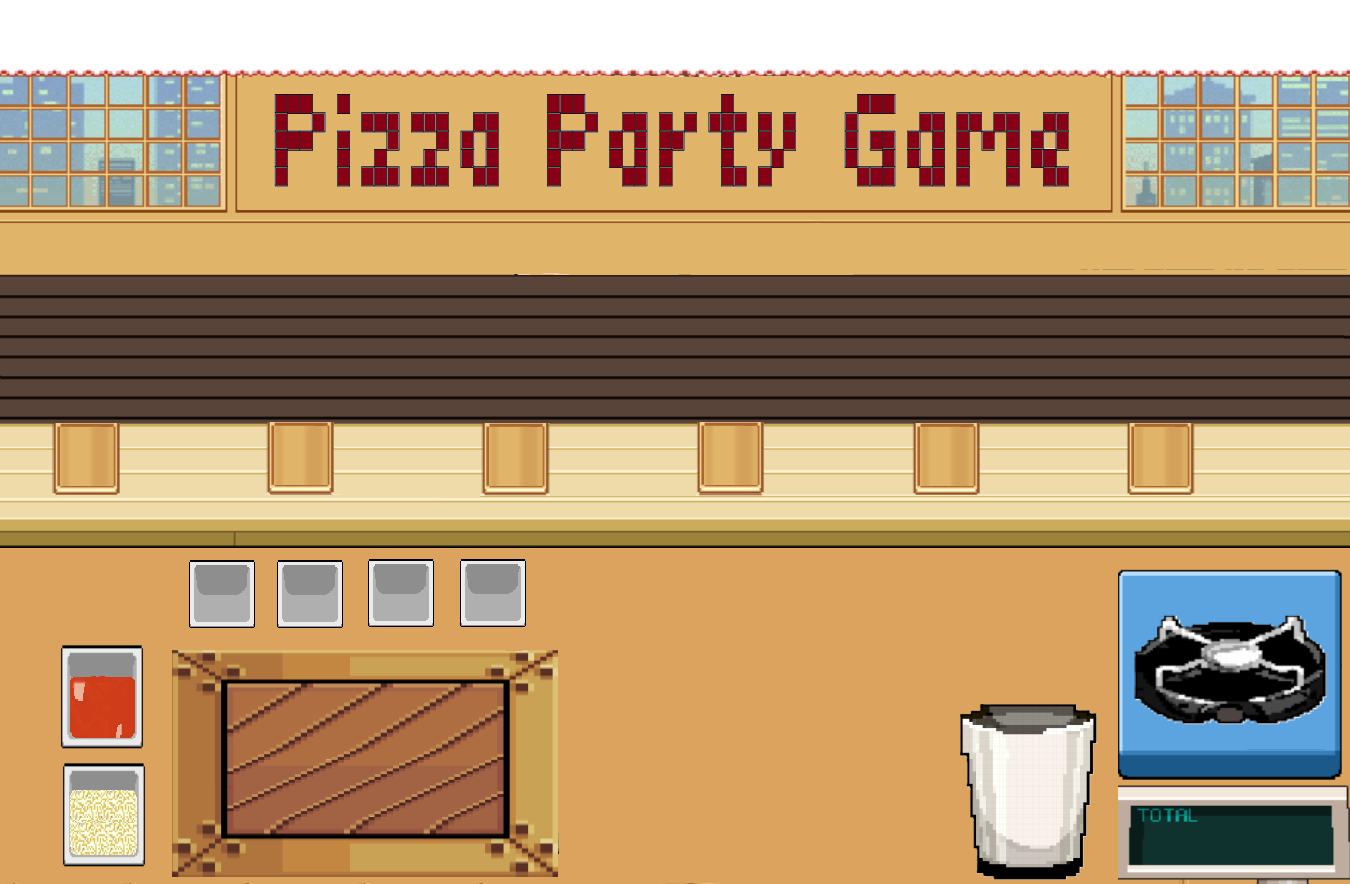
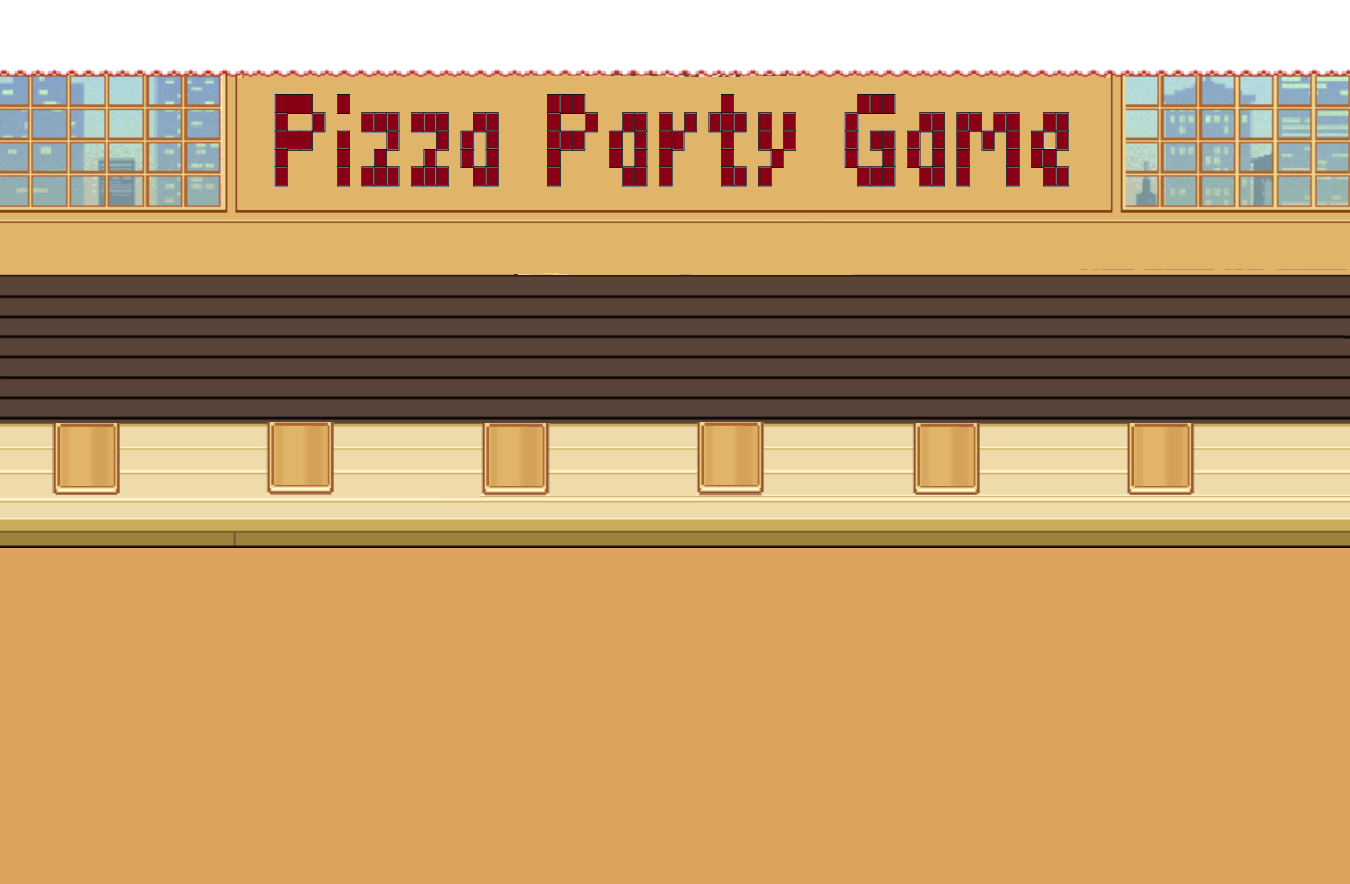
fixed topping image issues, fix pizza location, modified background image, got trashcan to work, fixed customer dissappearing issue

Changed region(s): [[0.0311, 0.6109, 0.4356, 1.0], [0.6844, 0.6414, 1.0, 1.0]]

diff --git a/frontend/src/components/Town/interactables/PizzaParty/PizzaPartyGame.tsx b/frontend/src/components/Town/interactables/PizzaParty/PizzaPartyGame.tsx
@@ -1,8 +1,8 @@
 import React, { useEffect, useState } from 'react';
-
+import {Pizza, Pizza as PizzaType} from '../../../../types/CoveyTownSocket';
 import Image from 'next/image';
 import PizzaPartyAreaController from '../../../../classes/interactable/PizzaPartyAreaController';
-import Pizza from './Pizza';
+import PizzaSprite from './Pizza';
 import Customer from './Customer';
 import {
   Customer as CustomerType,
@@ -13,10 +13,24 @@ import { ToppingOptions } from '../../../../types/CoveyTownSocket';
 import ToppingTray from './ToppingTray';
 import Oven from './Oven';
 import Trash from './Trash';
+import { chakra, Container } from '@chakra-ui/react';
 
 export type PizzaPartyGameProps = {
   gameAreaController: PizzaPartyAreaController;
 };
+
+/**
+ * A component that renders the Pizza Party game
+ */
+const StyledPizzaGameBoard = chakra(Container, {
+  baseStyle: {
+    display: 'flex',
+    width: '400px',
+    height: '400px',
+    padding: '5px',
+    flexWrap: 'wrap',
+  },
+});
 
 const TOPPINGS_LIST: ToppingOptions[] = [
   'pepperoni',
@@ -31,29 +45,39 @@ const TOPPINGS_LIST: ToppingOptions[] = [
 // To-Do: Add controller functionality in here
 export default function PizzaPartyGame({ gameAreaController }: PizzaPartyGameProps): JSX.Element {
   const [currentCustomers, setCurrentCustomers] = useState(gameAreaController.currentCustomers);
-  const [currentPizza, setCurrentPizza] = useState(gameAreaController.currentPizza);
+  const [currentPizza, setCurrentPizza] = useState<Pizza | undefined>(gameAreaController.currentPizza);
+  const [currentToppings, setCurrentToppings] = useState<ToppingType[] | undefined>(currentPizza?.toppings);
   const [currentScore, setCurrentScore] = useState(gameAreaController.currentScore);
   const [currentGame, setCurrentGame] = useState(gameAreaController.game);
 
   useEffect(() => {
     const intervalId = setInterval(() => {
-      const index = gameAreaController.findEmptySeat();
-      if (
-        index !== -1 &&
-        index !== undefined &&
-        currentCustomers !== undefined &&
-        gameAreaController.currentCustomers !== undefined
-      ) {
-        const newCustomers = [...currentCustomers];
-        const customer = gameAreaController.generateRandomCustomer();
-        newCustomers[index] = customer;
-        gameAreaController.currentCustomers[index] = customer;
-        setCurrentCustomers(newCustomers);
-        console.log('hello');
-        console.log(currentCustomers);
-      }
+      // if (currentCustomers && currentCustomers.length >= 3) {
+      //   clearInterval(intervalId);
+      // } else {
+        const index = gameAreaController.findEmptySeat();
+        if (
+          index !== -1 &&
+          index !== undefined &&
+          currentCustomers !== undefined &&
+          gameAreaController.currentCustomers !== undefined
+        ) {
+          const newCustomers = [...currentCustomers];
+          const customer = gameAreaController.generateRandomCustomer();
+          newCustomers[index] = customer;
+          gameAreaController.currentCustomers[index] = customer;
+          setCurrentCustomers(newCustomers);
+        }
+        gameAreaController.addListener('customerChanged', setCurrentCustomers);
+
     }, 3000);
-    gameAreaController.addListener('customerChanged', setCurrentCustomers);
+    return () => {
+    gameAreaController.removeListener('customerChanged', setCurrentCustomers);  
+    clearInterval(intervalId);
+    };
+  }, [gameAreaController, currentCustomers]);
+
+  useEffect(() => {
     gameAreaController.addListener('pizzaChanged', setCurrentPizza);
     gameAreaController.addListener('scoreChanged', setCurrentScore);
     gameAreaController.addListener('gameChanged', setCurrentGame);
@@ -62,9 +86,8 @@ export default function PizzaPartyGame({ gameAreaController }: PizzaPartyGamePro
       gameAreaController.removeListener('pizzaChanged', setCurrentPizza);
       gameAreaController.removeListener('scoreChanged', setCurrentScore);
       gameAreaController.removeListener('gameChanged', setCurrentGame);
-      clearInterval(intervalId);
     };
-  }, [currentGame, currentCustomers, currentPizza, gameAreaController]);
+  }, [currentGame, currentPizza, gameAreaController]);
 
   function applyTopping(topp: ToppingOptions): void {
     const top = {
@@ -78,56 +101,58 @@ export default function PizzaPartyGame({ gameAreaController }: PizzaPartyGamePro
       customer: undefined,
       gamePiece: 'placeTopping',
     });
-    console.log(currentPizza);
   }
+  function handleTrashClick(): void {
+    console.log("Trash clicked");
+    gameAreaController.makeMove({
+      gamePiece: 'throwOut',
+      pizza: currentPizza,
+      customer: undefined,
+    });
+    console.log("move made");
+  };
 
   return (
-    <div>
-      <div>
-        <Image
-          src={'/assets/pizza-party/background.png'}
-          alt='Pizza Party Game'
-          layout='fill'
-          style={{ position: 'absolute', top: 0, left: 0 }}
-        />
-        <div style={{ position: 'absolute', top: 425, left: 55, width: '100%', height: '100%' }}>
-          <Pizza pizza={currentPizza} toppings={currentPizza?.toppings} />
-        </div>
-        <div style={{ display: 'flex', position: 'absolute', left: 7 }}>
-          {currentCustomers?.map((customer, index) =>
-            customer.name !== 'Empty' ? (
-              <div style={{ marginRight: 30 }} key={index}>
-                <Customer customer={customer} />
-              </div>
-            ) : (
-              <div style={{ marginRight: 30 }} key={index}></div>
-            ),
-          )}
-        </div>
-        <div style={{ position: 'absolute', top: 350, left: 480 }}>
-          <Oven />
-        </div>
-        <div style={{ position: 'absolute', top: 430, left: 410 }}>
-          <Trash />
-        </div>
-        <div style={{ display: 'flex', position: 'absolute', left: 7, top: 350 }}>
-          {TOPPINGS_LIST.map((topping, index) => {
-            return (
-              <div key={index} style={{ marginRight: 30 }} onClick={() => applyTopping(topping)}>
-                <ToppingTray topping={topping} />
-              </div>
-            );
-          })}
-        </div>
-        <div style={{ display: 'flex', flexDirection: 'column', position: 'absolute', top: 400 }}>
-          <ToppingTray topping={'sauce'} />
-          <ToppingTray topping={'cheese'} />
-        </div>
+    <StyledPizzaGameBoard>
+      <Image
+        src={'/assets/pizza-party/background.png'}
+        alt='Pizza Party Game'
+        layout='fill'
+        style={{ position: 'absolute', top: 0, left: 0 }}
+      />
+      <div style={{ position: 'absolute', top: 450, left:55,  width: '100%', height: '100%'}}>
+        <PizzaSprite pizza={currentPizza} toppings={currentPizza?.toppings} />
       </div>
-      <div>
-        <div>Instructions</div>
-        <div></div>
+      <div style={{ display: 'flex', position: 'absolute', left: 7 }}>
+        {currentCustomers?.map((customer, index) =>
+          customer.name !== 'Empty' ? (
+            <div style={{ marginRight: 30 }} key={index}>
+              <Customer customer={customer} />
+            </div>
+          ) : (
+            <div style={{ marginRight: 30 }} key={index}></div>
+          ),
+        )}
       </div>
-    </div>
+      <div style={{ position: 'absolute', top: 350, left: 480 }}>
+        <Oven />
+      </div>
+      <div style={{ position: 'absolute', top: 430, left: 410 }}>
+        <Trash onClick={() => handleTrashClick()}/>
+      </div>
+      <div style={{ display: 'flex', position: 'absolute', left: 7, top: 350 }}>
+        {TOPPINGS_LIST.map((topping, index) => {
+          return (
+            <div key={index} style={{ marginRight: 30 }} onClick={() => applyTopping(topping)}>
+              <ToppingTray topping={topping} />
+            </div>
+          );
+        })}
+      </div>
+      <div style={{ display: 'flex', flexDirection: 'column', position: 'absolute', top: 400 }}>
+        <ToppingTray topping={'sauce'} />
+        <ToppingTray topping={'cheese'} />
+      </div>
+    </StyledPizzaGameBoard>
   );
 }

diff --git a/frontend/src/components/Town/interactables/PizzaParty/Pizza.tsx b/frontend/src/components/Town/interactables/PizzaParty/Pizza.tsx
@@ -9,22 +9,25 @@ export type PizzaProps = {
   toppings: ToppingType[] | undefined;
 };
 
-export default function Pizza({ pizza, toppings }: PizzaProps): JSX.Element {
+export default function PizzaSprite({ pizza, toppings }: PizzaProps): JSX.Element {
   const [currentPizza, setCurrentPizza] = useState<PizzaType | undefined>(pizza);
 
   if (!currentPizza) {
     return <div />;
   }
+
   return (
-    <div>
+    <div style={{ position: 'relative', width: '200px', height: '100px' }}>
       <Image
         src={'/assets/pizza-party/raw-pizzas/dough.png'}
         alt='Pizza base'
         width={200}
         height={100}
       />
-      {toppings.map((topping, index) => (
-        <Topping key={index} topping={topping} />
+      {toppings?.map((topping, index) => (
+        <div style={{ position: 'absolute', top: '50%', left: '50%', transform: 'translate(-50%, -50%)' }}>
+          <Topping key={index} topping={topping} />
+        </div>
       ))}
     </div>
   );

diff --git a/frontend/src/components/Town/interactables/PizzaParty/Trash.tsx b/frontend/src/components/Town/interactables/PizzaParty/Trash.tsx
@@ -1,10 +1,13 @@
 import React from 'react';
-
 import Image from 'next/image';
 
-export default function Trash(): JSX.Element {
+interface TrashProps {
+  onClick: () => void;
+}
+
+export default function Trash({ onClick }: TrashProps): JSX.Element {
   return (
-    <button onClick={() => console.log('Trash clicked')}>
+    <button onClick={onClick}>
       <Image src={'/assets/pizza-party/trash.jpg'} height={120} width={60} />
     </button>
   );
